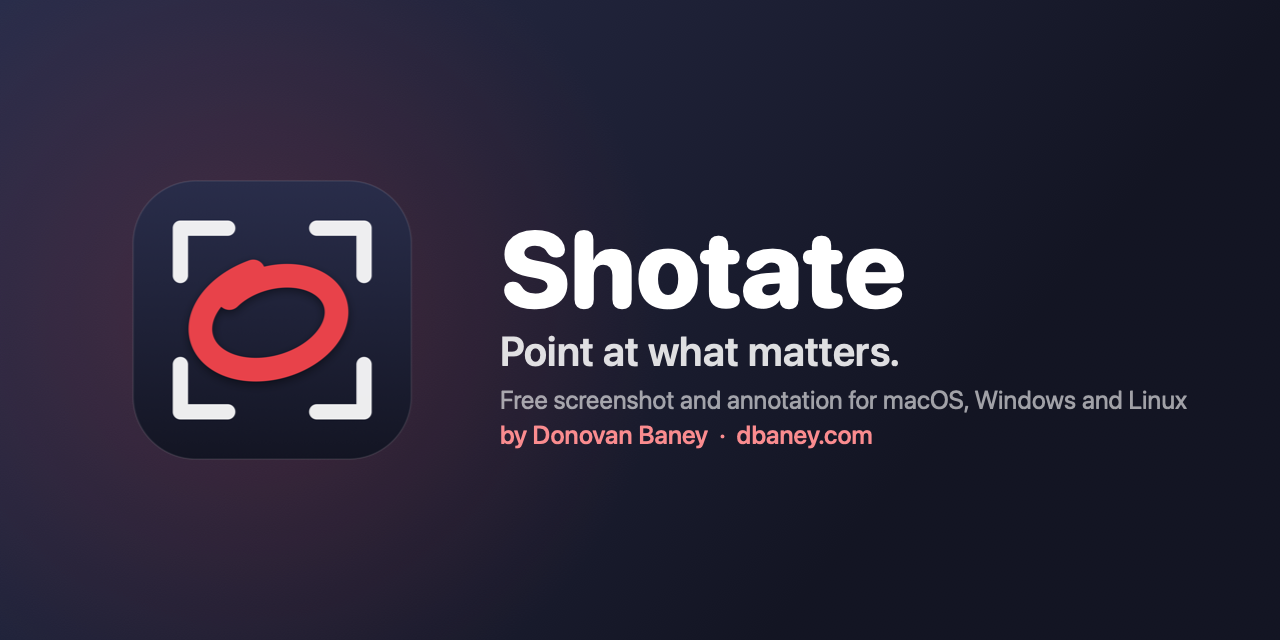
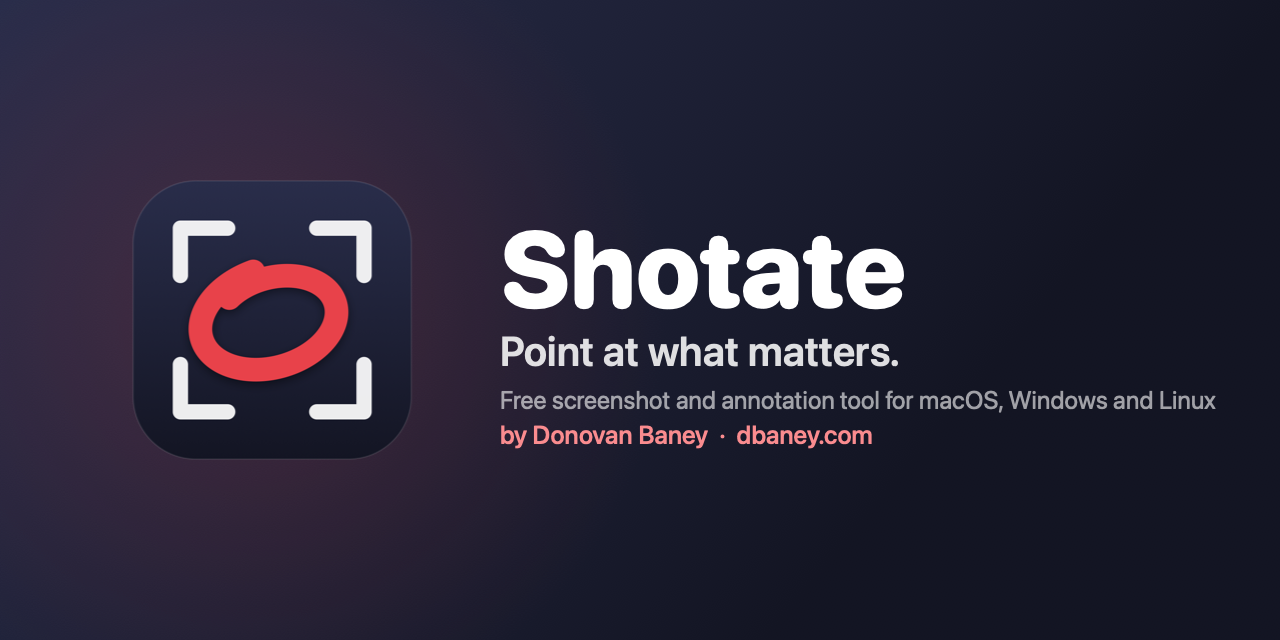
Rename: fix review findings
- Windows: the setup carries over Open at login and removes the old
  Snapmark install (NSIS pre-install hook); the MSI keeps Snapmark's
  upgrade code so it replaces a Snapmark MSI. install.ps1 relies on it.
- Linux: .deb/.rpm conflict with, replace/obsolete and provide snapmark,
  and ship a snapmark -> shotate command; the app moves a Snapmark
  autostart entry to Shotate. install.sh no longer removes packages itself.
- macOS: one copy at a time (an old Snapmark.app anywhere is quit), the
  installers also clear /Applications/Snapmark.app, and the login item is
  re-registered once for Shotate.app.
- Docs: signing folder path in SECURITY.md, macOS 14 qualifier, tagline
  says tool, two stale comments.

Changed region(s): [[0.4062, 0.5938, 0.9688, 0.6562]]

diff --git a/macos/scripts/make-brand.swift b/macos/scripts/make-brand.swift
@@ -39,7 +39,7 @@ func render(_ w: Int, _ h: Int, iconSize: CGFloat, title: CGFloat, to name: Stri
     text("Shotate", size: title, weight: .heavy, rounded: true, color: .white, at: CGPoint(x: x, y: H / 2 + title * 0.12))
     text("Point at what matters.", size: title * 0.38, weight: .semibold, color: NSColor(white: 1, alpha: 0.86),
          at: CGPoint(x: x, y: H / 2 - title * 0.42))
-    text("Free screenshot and annotation for macOS, Windows and Linux", size: title * 0.235, weight: .regular,
+    text("Free screenshot and annotation tool for macOS, Windows and Linux", size: title * 0.235, weight: .regular,
          color: NSColor(white: 1, alpha: 0.6), at: CGPoint(x: x, y: H / 2 - title * 0.82))
     text("by Donovan Baney  ·  dbaney.com", size: title * 0.235, weight: .medium,
          color: NSColor(srgbRed: 0.98, green: 0.55, blue: 0.56, alpha: 1), at: CGPoint(x: x, y: H / 2 - title * 1.14))

diff --git a/macos/Sources/Shotate/main.swift b/macos/Sources/Shotate/main.swift
@@ -35,6 +35,19 @@ if let i = args.firstIndex(of: "--wait-for"), i + 1 < args.count, let pid = pid_
     for _ in 0..<100 where kill(pid, 0) == 0 { usleep(100_000) }
 }
 
+// One copy at a time. Shotate keeps Snapmark's bundle ID, so an old Snapmark still running (say, a
+// copy installed somewhere else) would fight it for the shortcuts: quit that one. If another Shotate
+// is already running, hand over to it.
+for other in NSRunningApplication.runningApplications(withBundleIdentifier: Bundle.main.bundleIdentifier ?? "")
+where other.processIdentifier != getpid() {
+    if other.bundleURL?.lastPathComponent == "Snapmark.app" {
+        other.terminate()
+    } else {
+        other.activate()
+        exit(0)
+    }
+}
+
 let app = NSApplication.shared
 let delegate = AppDelegate()
 app.delegate = delegate

diff --git a/macos/Sources/Shotate/AppDelegate.swift b/macos/Sources/Shotate/AppDelegate.swift
@@ -30,6 +30,11 @@ final class AppDelegate: NSObject, NSApplicationDelegate, NSMenuDelegate {
             if recording { self?.hotkeys.removeAll() } else { self?.applySettings(save: false) }
         }
         Settings.adoptLegacyConfig()
+        // Open at login was registered for Snapmark.app; register once more so it points at Shotate.app.
+        if !UserDefaults.standard.bool(forKey: "loginItemMovedToShotate") {
+            UserDefaults.standard.set(true, forKey: "loginItemMovedToShotate")
+            if launchAtLogin { launchAtLogin = true }
+        }
         settings = loadConfig() ?? settings
         settings.normalize()
         applySettings(save: !FileManager.default.fileExists(atPath: Settings.configURL.path))

diff --git a/macos/Sources/Shotate/Welcome.swift b/macos/Sources/Shotate/Welcome.swift
@@ -5,7 +5,7 @@ import ShotateCore
 /// Screen Recording permission. A running app may not see a change until it relaunches.
 ///
 /// macOS stores a grant together with the code signature of the build that asked. If that signature
-/// changes (older Shotate builds were signed ad hoc, so every build had a new one), the switch in
+/// changes (older builds, as Snapmark, were signed ad hoc, so every build had a new one), the switch in
 /// System Settings can show "on" while macOS still refuses this build, and flipping it doesn't help.
 /// `request()` therefore clears Shotate's own entry before asking, so macOS records this build.
 enum ScreenRecording {

diff --git a/macos/Sources/ShotateCore/Document.swift b/macos/Sources/ShotateCore/Document.swift
@@ -423,7 +423,7 @@ public enum Geometry {
         return hypot(dx, dy)
     }
 
-    /// Shotate a drag end to 45-degree steps (Shift while drawing an arrow).
+    /// Snap a drag end to 45-degree steps (Shift while drawing an arrow).
     public static func snap45(from a: CGPoint, to b: CGPoint) -> CGPoint {
         let angle = (atan2(b.y - a.y, b.x - a.x) / (.pi / 4)).rounded() * (.pi / 4)
         let len = hypot(b.x - a.x, b.y - a.y)

diff --git a/desktop/src-tauri/src/lib.rs b/desktop/src-tauri/src/lib.rs
@@ -159,7 +159,10 @@ fn linux_tool_capture() -> Option<RgbaImage> {
         ("spectacle", vec!["-b", "-n", "-f", "-o", o.as_str()]),
     ];
     for (tool, args) in tools {
-        let ok = std::process::Command::new(tool).args(&args).status().is_ok_and(|s| s.success());
+        let ok = std::process::Command::new(tool)
+            .args(&args)
+            .status()
+            .is_ok_and(|s| s.success());
         if ok {
             let image = image::open(&out).ok().map(|i| i.to_rgba8());
             let _ = std::fs::remove_file(&out);
@@ -386,7 +389,13 @@ async fn save_dialog(app: AppHandle, name: String) -> Option<String> {
 #[tauri::command]
 async fn pick_folder(app: AppHandle) -> Option<String> {
     let start = app.state::<State>().config.lock().unwrap().save_dir();
-    let picked = app.dialog().file().set_directory(start).blocking_pick_folder()?.into_path().ok()?;
+    let picked = app
+        .dialog()
+        .file()
+        .set_directory(start)
+        .blocking_pick_folder()?
+        .into_path()
+        .ok()?;
     let home = dirs::home_dir().unwrap_or_default();
     Some(match picked.strip_prefix(&home) {
         Ok(rest) => format!("~/{}", rest.to_string_lossy().replace('\\', "/")),
@@ -650,7 +659,11 @@ fn encode(s: &str) -> String {
 
 fn show_view(app: &AppHandle, label: &str, title: &str, size: (f64, f64)) {
     // Windows Settings puts navigation on the left, which needs a wider window.
-    let size = if cfg!(windows) && label == "settings" { (900.0, 640.0) } else { size };
+    let size = if cfg!(windows) && label == "settings" {
+        (900.0, 640.0)
+    } else {
+        size
+    };
     if let Some(w) = app.get_webview_window(label) {
         let _ = w.show();
         let _ = w.set_focus();
@@ -704,6 +717,29 @@ fn autostart(app: AppHandle, enable: Option<bool>) -> bool {
         None => {}
     }
     manager.is_enabled().unwrap_or(false)
+}
+
+/// Shotate was called Snapmark before 0.12. On Linux its Open at login entry is a desktop file named
+/// after the app; this turns on Shotate's own and removes the old one. (On Windows the installer
+/// carries the setting over, because removing Snapmark deletes its entry.)
+fn adopt_legacy_autostart(app: &AppHandle) {
+    if !cfg!(target_os = "linux") {
+        return;
+    }
+    let Some(dir) = dirs::config_dir().map(|d| d.join("autostart")) else {
+        return;
+    };
+    let old: Vec<_> = ["Snapmark.desktop", "snapmark.desktop"]
+        .iter()
+        .map(|n| dir.join(n))
+        .filter(|p| p.exists())
+        .collect();
+    if old.is_empty() || app.autolaunch().enable().is_err() {
+        return;
+    }
+    for p in old {
+        let _ = std::fs::remove_file(p);
+    }
 }
 
 /// "windows", "linux-x11" or "linux-wayland", "macos" (for development builds).
@@ -866,7 +902,13 @@ pub fn run() {
         .on_window_event(|window, event| {
             // However the overlay goes away (Esc, Alt+F4, the window manager), drop its capture.
             if window.label() == "overlay" && matches!(event, tauri::WindowEvent::Destroyed) {
-                window.app_handle().state::<State>().pending.lock().unwrap().take();
+                window
+                    .app_handle()
+                    .state::<State>()
+                    .pending
+                    .lock()
+                    .unwrap()
+                    .take();
             }
         })
         .invoke_handler(tauri::generate_handler![
@@ -894,6 +936,7 @@ pub fn run() {
         .setup(|app| {
             let handle = app.handle().clone();
             config::adopt_legacy(&config::legacy_path(), &config::path());
+            adopt_legacy_autostart(&handle);
             let first_run = !config::path().exists();
             reload(&handle, true);
             watch_config(&handle);

diff --git a/desktop/src-tauri/src/config.rs b/desktop/src-tauri/src/config.rs
@@ -301,7 +301,10 @@ mod tests {
     #[test]
     fn adopts_the_snapmark_config_once() {
         let dir = std::env::temp_dir().join(format!("shotate-adopt-{}", std::process::id()));
-        let (old, new) = (dir.join("snapmark/config.json"), dir.join("shotate/config.json"));
+        let (old, new) = (
+            dir.join("snapmark/config.json"),
+            dir.join("shotate/config.json"),
+        );
         assert!(!adopt_legacy(&old, &new), "nothing to adopt");
         std::fs::create_dir_all(old.parent().unwrap()).unwrap();
         std::fs::write(&old, r#"{"copyOnCapture": false}"#).unwrap();

diff --git a/README.md b/README.md
@@ -1,5 +1,5 @@
 <p align="center">
-  <img src="docs/banner.png" alt="Shotate: point at what matters. Free screenshot and annotation for macOS, Windows and Linux." width="100%">
+  <img src="docs/banner.png" alt="Shotate: point at what matters. Free screenshot and annotation tool for macOS, Windows and Linux." width="100%">
 </p>
 
 <h1 align="center">Shotate</h1>
@@ -60,8 +60,8 @@ global shortcuts to themselves: add one in your keyboard settings that runs `sho
 ## How it works
 
 1. **Press ⇧⌘S** (Ctrl+Shift+S on Windows and Linux) and drag over anything. Press Space to grab a
-   whole window instead. The screen freezes while you choose, and the editor opens the moment you
-   let go.
+   whole window instead. On macOS 14 and later the screen freezes while you choose, and the editor
+   opens the moment you let go.
 2. **Mark it up.** Arrows, boxes, highlights, text, numbered steps, crop and redaction.
 3. **Press Return.** The image is on your clipboard, ready to paste into Slack, Mail, a pull request
    or a terminal, and a copy is saved to your Pictures/Screenshots folder.
@@ -121,9 +121,8 @@ registered with `RegisterEventHotKey`, which macOS allows without extra permissi
 
 macOS ties that permission to the app's code signature. Shotate's installer creates a local signing
 certificate the first time it runs, kept in its own keychain under
-`~/Library/Application Support/Snapmark/Signing` (the folder keeps the app's old name, so updates
-keep the same certificate). The certificate stays the same across updates, so
-macOS remembers your choice. It is never added to your login keychain and is trusted for nothing else.
+`~/Library/Application Support/Snapmark/Signing` (it keeps the app's old name). The certificate
+stays the same across updates, so macOS remembers your choice. It is never added to your login keychain and is trusted for nothing else.
 
 If Screen Recording is ever off, the menu bar menu shows **Allow Screen Recording…** at the top.
 

diff --git a/CHANGELOG.md b/CHANGELOG.md
@@ -6,10 +6,11 @@
 - **Snapmark is now Shotate.** Many screenshot tools already share the old name. Shotate is
   screenshot and annotate in one word. It has a new icon, the red marker loop you'd draw around the
   thing that matters, and a new home at github.com/baney75/shotate (old links redirect).
-  Updating keeps everything: the macOS Screen Recording permission, your settings (copied from
-  `~/.config/snapmark` to `~/.config/shotate`), your shortcuts and your screenshots. The installers
-  remove the old Snapmark app, and `snapmark://` links still work on macOS. The command line is now
-  `shotate --capture`. On Windows and Linux, turn on Open at login again if you used it.
+  Updating keeps everything: the macOS Screen Recording permission, Open at login, your settings
+  (copied from `~/.config/snapmark` to `~/.config/shotate`), your shortcuts and your screenshots.
+  Every installer, including the Windows setup and the Linux packages on their own, replaces the
+  old Snapmark app so only one copy runs. `snapmark://` links still work on macOS, and on Linux a
+  shortcut bound to `snapmark --capture` keeps working (the command is now `shotate --capture`).
 
 ### Added
 - **Wrapping text.** Drag with the Text tool to set the width a label wraps at; drag a label's side

diff --git a/SECURITY.md b/SECURITY.md
@@ -13,7 +13,7 @@ rather than in a public issue. Expect a reply within a week.
 
 The installer creates a self-signed code-signing certificate so macOS keeps the Screen Recording
 permission across updates. It lives in its own keychain at
-`~/Library/Application Support/Shotate/Signing`, is never added to your login keychain or trust
+`~/Library/Application Support/Snapmark/Signing` (the folder keeps the app's old name), is never added to your login keychain or trust
 settings, and is used only to sign your local Shotate build. `uninstall.sh` removes it.
 
 The tradeoff: the key and its keychain password are files readable by your user account. A program
